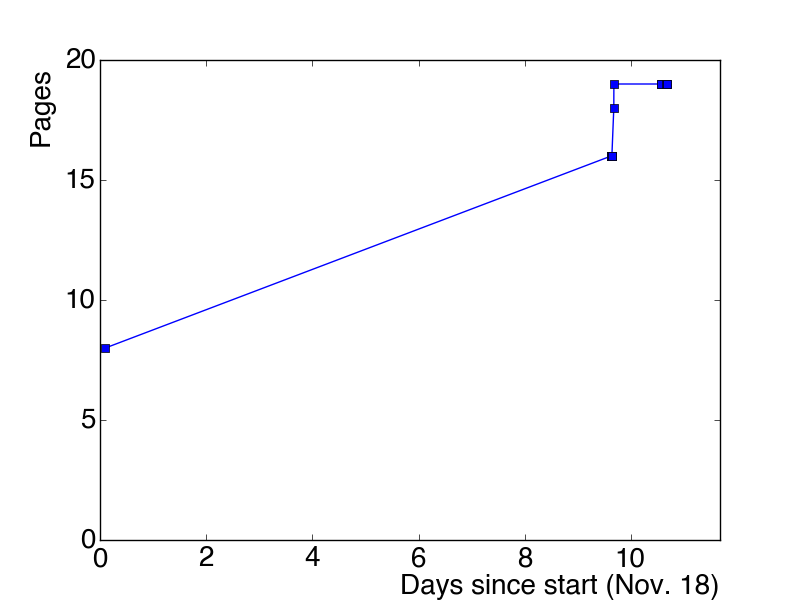
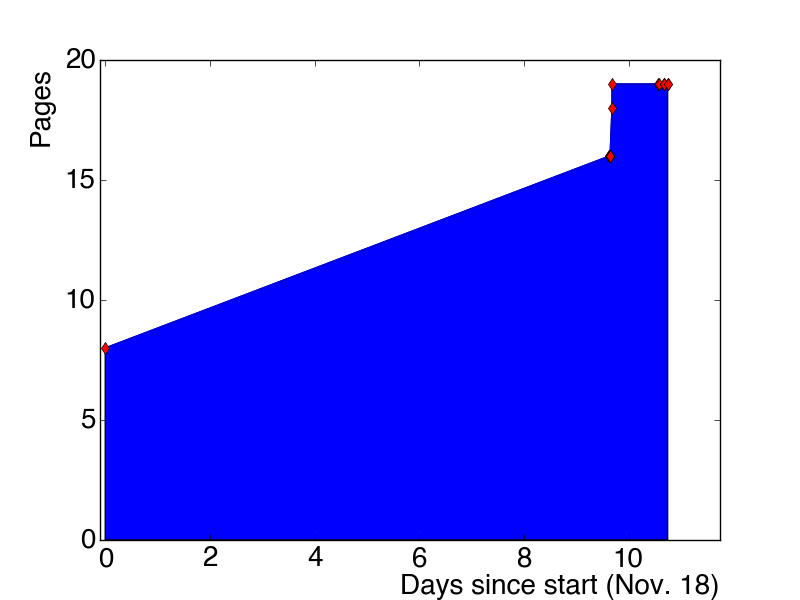
still stupid shit

diff --git a/scripts/plot-pages.py b/scripts/plot-pages.py
@@ -9,8 +9,8 @@ start = datetime.datetime.strptime(start, "%Y-%m-%d-%Hh%Mm%Ss")
 dayssince = []
 pages = []
 
-# the template already has 8 pages :-|
-dayssince.append(0.1)
+# the template already has 8 pages. thx reecer.
+dayssince.append(0)
 pages.append(8)
 
 with open("pages.md") as file:
@@ -52,12 +52,11 @@ plt.xlabel("Days since start (Nov. 18)")
 plt.ylabel("Pages")
 plt.title("")
 # plt.text(60, .025, r"$\mu=100,\ \sigma=15$")
-plt.axis([0, maxdayssince+1, 0, max(pages)+1])
+plt.axis([-0.1, maxdayssince+1, 0, max(pages)+1])
 plt.grid(False)
-# plt.plot(dayssince, pages, 'bs', linewidth=2)
 plt.plot(dayssince, pages, "-")
-plt.plot(dayssince, pages, "bs")
+plt.plot(dayssince, pages, "rd")
+plt.fill_between(dayssince, 0, pages, facecolor='blue', interpolate=True)
 plt.savefig("pages.png")
 plt.savefig("pages.pdf")
-# plt.show()
 

diff --git a/pages.md b/pages.md
@@ -19,3 +19,5 @@
 + [2014-11-28-16h04m18s] 19
 + [2014-11-28-16h16m44s] 19
 + [2014-11-28-16h17m22s] 19
++ [2014-11-28-17h45m28s] 19
++ [2014-11-28-17h46m49s] 19
